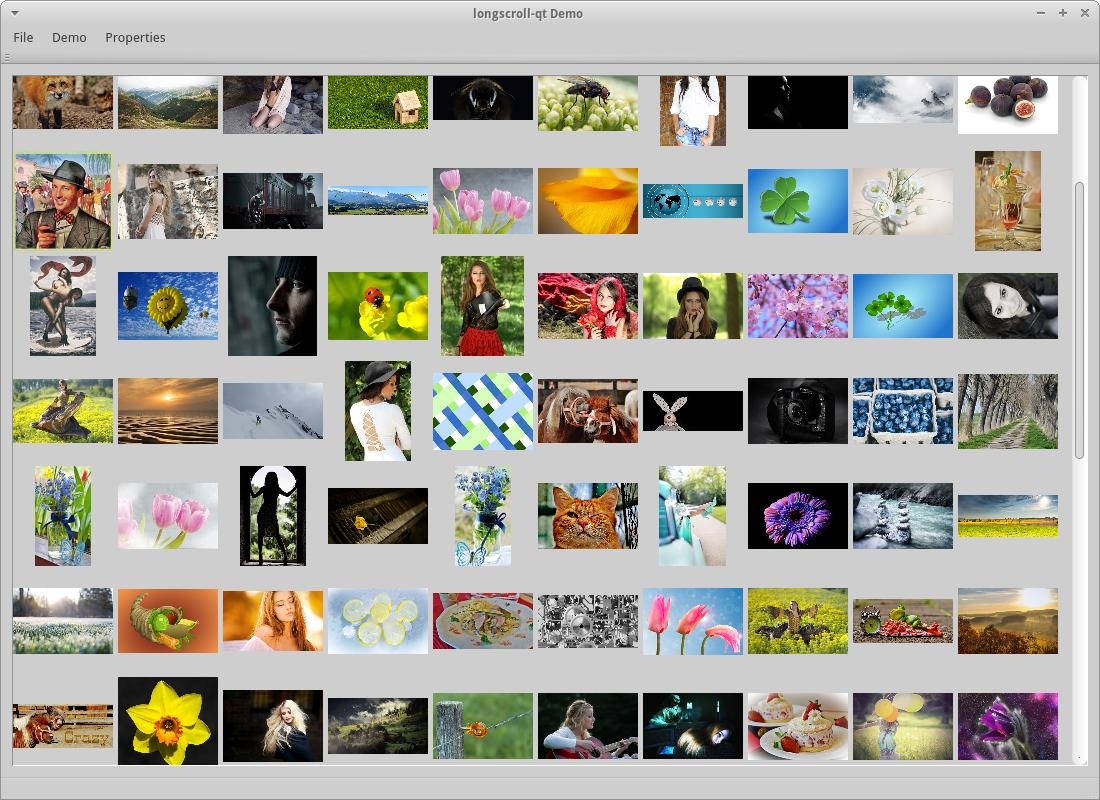
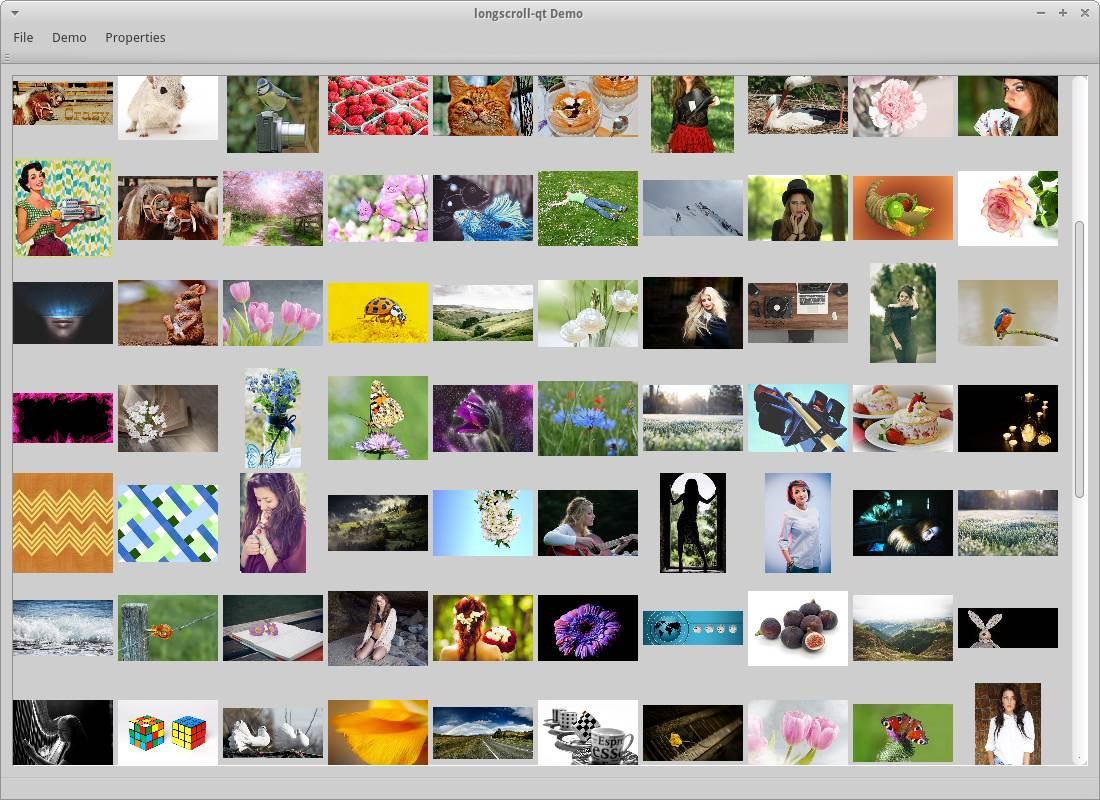
Updated screenshots

diff --git a/README.md b/README.md
@@ -39,9 +39,9 @@ Alright here are some real screenshots anyway:
 
 ![screenshot 2](doxygen/img/screen02.jpg)
 
-![screenshot 3](doxygen/img/screen03.jpg)
+![screenshot 3](doxygen/img/screen04.jpg)
 
-![screenshot 4](doxygen/img/screen04.jpg)
+![screenshot 4](doxygen/img/screen06.jpg)
 
 ![screenshot 5](doxygen/img/screen05.jpg)
 
